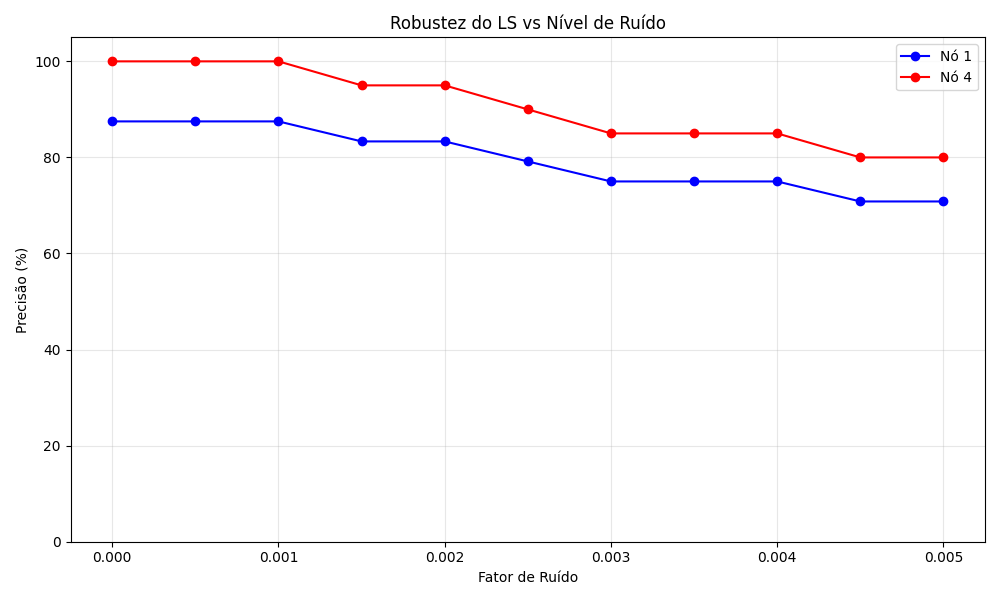
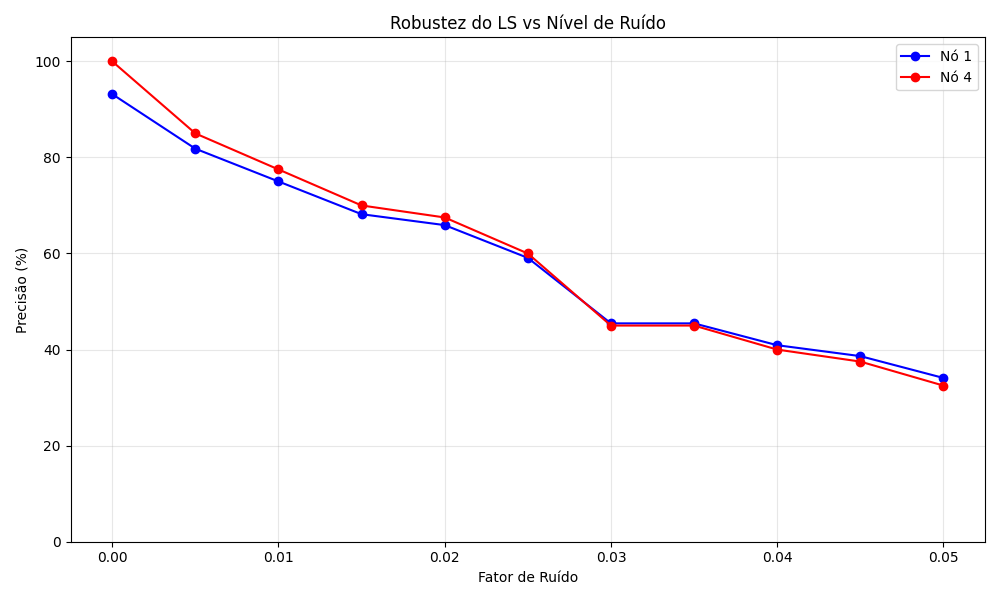
lab6

diff --git a/1 - Data Analitics for Smart Grids/Lab 6/Lab6.py b/1 - Data Analitics for Smart Grids/Lab 6/Lab6.py
@@ -173,7 +173,7 @@ def get_measurements(measured_node_index=3):
 # ============================================================================================================================================
 # Função para criar a matriz X e o vetor y para o problema de mínimos quadrados
 # ============================================================================================================================================
-def build_regression_matrices(Y, al, s, normalize=False):
+def build_regression_matrices(Y, al, s, z):
     """
     Constrói a matriz X (3M x 3N) e o vetor y (3M x 1) para o problema de mínimos quadrados
     
@@ -181,7 +181,7 @@ def build_regression_matrices(Y, al, s, normalize=False):
     Y - vetor de tensões medidas (3M)
     al - ângulo de fase
     s - matriz de consumo (M x N)
-    normalize - se True, normaliza as colunas da matriz X (padrão: False)
+    z - impedâncias dos troços
     
     Retorna:
     X - matriz de regressão (3M x 3N)
@@ -191,15 +191,26 @@ def build_regression_matrices(Y, al, s, normalize=False):
     M = m  # m é o parâmetro global (12)
     N = s.shape[1]  # N é o número de colunas em s (4)
     
-    # Matriz Z (matriz de impedância/deslocamento)
-    Z = np.array([[2, al, al**2],
-                  [1, 2*al, al**2],
-                  [1, al, 2*al**2]])
+    # Matriz base de impedância/deslocamento
+    Z_base = np.array([[2, al, al**2],
+                      [1, 2*al, al**2],
+                      [1, al, 2*al**2]])
+    
+    # Calcular as impedâncias acumuladas para cada nó
+    # Para nó 1: Znm (apenas o primeiro troço)
+    # Para nó 2 e 3: Znm + Zml (soma dos primeiros dois troços)
+    # Para nó 4: Znm + Zml + Zlk (soma dos três troços)
+    z_accumulated = [
+        z[0],                 # Node 1: z[0] (impedância entre source e nó 1)
+        z[0] + z[1],          # Node 2: z[0] + z[1] (impedância acumulada até nó 2)
+        z[0] + z[1],          # Node 3: z[0] + z[1] (impedância acumulada até nó 3, igual ao nó 2)
+        z[0] + z[1] + z[2]    # Node 4: z[0] + z[1] + z[2] (impedância acumulada até nó 4)
+    ]
     
     # Inicialização da matriz X com dimensão 3M x 3N
     X = np.zeros((3*M, 3*N), dtype=complex)
     
-    # Inicialização do vetor y com dimensão 3M, dtype=complex)
+    # Inicialização do vetor y com dimensão 3M
     y = np.zeros(3*M, dtype=complex)
     
     # Tensão de referência
@@ -210,26 +221,14 @@ def build_regression_matrices(Y, al, s, normalize=False):
         # Para cada amostra de tempo i
         
         # Vetor y: diferença entre tensão de referência e tensões medidas
-        # y_m = [V_ref,a, V_ref,b, V_ref,c]^T - [V_m,a, V_m,b, V_m,c]^T
         y[3*i:3*i+3] = np.multiply(vr, [1, al, al**2]) - Y[3*i:3*i+3]
         
         # Para cada cliente j
         for j in range(N):
-            # Bloco X_ij = Z * s_ij
-            # Onde Z é a matriz de impedância/deslocamento e s_ij é o consumo do cliente j no tempo i
-            X[3*i:3*i+3, 3*j:3*j+3] = Z * s[i, j]
-    
-    # Normalização das colunas da matriz X (opcional)
-    if normalize:
-        # Para cada cliente j
-        for j in range(N):
-            # Normalizar cada bloco 3x3 da matriz X
-            for k in range(3):
-                col_idx = 3*j + k
-                # Normalização L2 da coluna
-                col_norm = np.linalg.norm(X[:, col_idx])
-                if col_norm > 0:
-                    X[:, col_idx] = X[:, col_idx] / col_norm
+            # Aplicar a impedância acumulada correta para cada nó
+            # Bloco X_ij = Z_base * s_ij * z_accumulated[j]
+            X[3*i:3*i+3, 3*j:3*j+3] = Z_base * s[i, j] * z_accumulated[j]
+
     
     return X, y
 
@@ -275,7 +274,7 @@ def solve_and_identify(X, y, n_clients):
 # ============================================================================================================================================
 # Funções para cálculo de fase usando mínimos quadrados e visualização dos resultados
 # ============================================================================================================================================
-def phase_id_least_squares(normalize=True):
+def phase_id_least_squares():
     """
     Identificação de fase usando o método dos mínimos quadrados
     
@@ -298,8 +297,8 @@ def phase_id_least_squares(normalize=True):
     # Número de clientes
     n_clients = loads.shape[1]
     
-    # Construir a matriz X e o vetor y com normalização opcional
-    X, y = build_regression_matrices(Y, al, loads, normalize)
+    # Construir a matriz X e o vetor y 
+    X, y = build_regression_matrices(Y, al, loads, z)
     
     # Resolver o sistema e identificar as fases
     beta_matrix, phases = solve_and_identify(X, y, n_clients)
@@ -371,7 +370,7 @@ def plot_results(voltages, loads):
 # ============================================================================================================================================
 # DESAFIO EXTRA 1 - Função para cálculo de fase alterando o indicador para o nó 1
 # ============================================================================================================================================
-def switch_indicator_position(node_index=0, normalize=True):
+def switch_indicator_position(node_index=0):
     '''
     Altera a posição do indicador de fase para o nó especificado e recalcula as fases dos clientes.
     
@@ -397,7 +396,7 @@ def switch_indicator_position(node_index=0, normalize=True):
     n_clients = loads.shape[1]
 
     # Construir a matriz X e o vetor y com normalização opcional
-    X, y = build_regression_matrices(Y, al, loads, normalize)
+    X, y = build_regression_matrices(Y, al, loads, z)
 
     # Resolver o sistema e identificar as fases
     beta_matrix, phases = solve_and_identify(X, y, n_clients)
@@ -406,16 +405,17 @@ def switch_indicator_position(node_index=0, normalize=True):
     beta_abs = np.abs(beta_matrix)
 
     return beta_matrix, beta_abs, phases, voltages, loads
+
 # ============================================================================================================================================
 # DESAFIO EXTRA 2 - Função para implementar diferentes valores de ruído no método dos mínimos quadrados
 # ============================================================================================================================================
-def compare_noise_impact_on_ls(seeds=[0, 1, 2, 3, 4]):
+def compare_noise_impact_on_ls(iterations=10):
     """
     Avalia a robustez do modelo LS a diferentes níveis de ruído.
     Mede a percentagem de acertos comparando com o caso sem ruído.
     """
     print("\n--- Robustez do modelo LS a ruído ---")
-    noise_values = [0.0, 0.0005, 0.001, 0.0015, 0.002, 0.0025, 0.003, 0.0035, 0.004, 0.0045, 0.005]
+    noise_values = [0.0, 0.005, 0.01, 0.015, 0.02, 0.025, 0.03, 0.035, 0.04, 0.045, 0.05]
     al_ref = np.exp(np.multiply(np.multiply(complex(0, -1), 2 / 3), np.pi))
 
     reference_phases = None  # Fases com ruído 0 (referência)
@@ -431,7 +431,7 @@ def compare_noise_impact_on_ls(seeds=[0, 1, 2, 3, 4]):
         accs = []
 
         # Nó = 4
-        for seed in seeds:
+        for seed in range(iterations):
             np.random.seed(seed)
 
             _, _, ls_phases, voltages, loads = phase_id_least_squares()
@@ -451,10 +451,13 @@ def compare_noise_impact_on_ls(seeds=[0, 1, 2, 3, 4]):
         ls_means_4.append(ls_mean_4)
         ls_stds_4.append(ls_std_4) 
 
+        variancia4 = np.var(ls_means_4)
+
         print(f"LS Accuracy (node 4) vs no-noise: {ls_mean_4:.2f}% ± {ls_std_4:.2f}%")
 
         # Nó = 1
-        for seed in seeds:
+        for seed in range(iterations):
+            # Resetar o ruído para o nó 1
             np.random.seed(seed)
 
             _, _, ls_phases, voltages, loads = switch_indicator_position()
@@ -473,6 +476,9 @@ def compare_noise_impact_on_ls(seeds=[0, 1, 2, 3, 4]):
 
         ls_means_1.append(ls_mean_1)
         ls_stds_1.append(ls_std_1)
+
+        # variancia
+        variancia1 = np.var(ls_means_1)
 
         print(f"LS Accuracy (node 1) vs no-noise: {ls_mean_1:.2f}% ± {ls_std_1:.2f}%")
 
